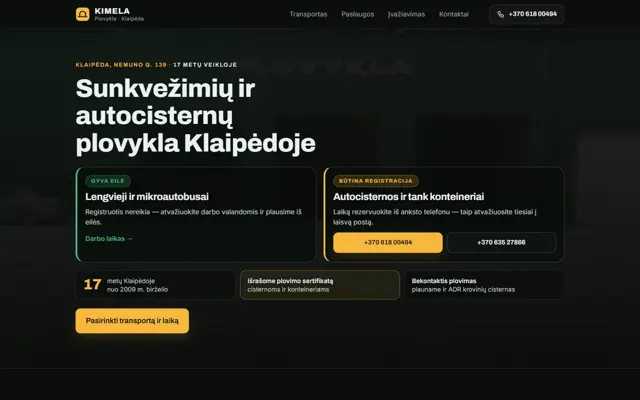
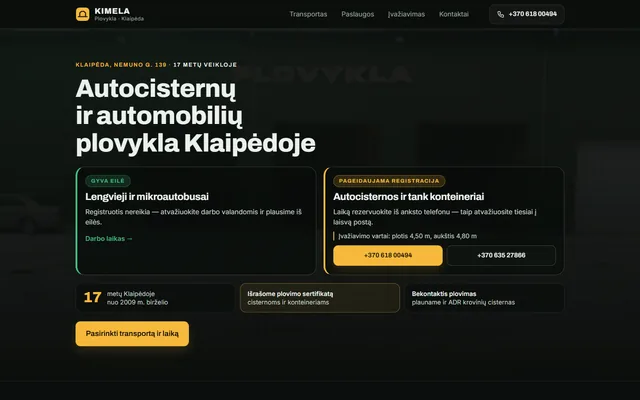
Nine more concepts (JanBra, Ventsistema, IG užuolaidos, TULU PH, Vytesa, Dr. Kļava, GR DARBI, Viktorija, Impress), Kimela re-shot, facts 28 / 7 countries, capture.py

diff --git a/assets/js/data.js b/assets/js/data.js
@@ -12,7 +12,16 @@ window.WORK = [
   { id: 'ards', name: 'ARDS Saldus', place: 'Saldus, Latvia', craft: 'Car service', lang: 'Latvian', url: 'https://vasilyanaptyp-oss.github.io/ards-concept/', tag: 'Service finder' },
   { id: 'mebtex', name: 'MEBTEX', place: 'Riga, Latvia', craft: 'Carpentry & furniture', lang: 'Latvian', url: 'https://vasilyanaptyp-oss.github.io/mebtex-concept/', tag: 'Work-first homepage' },
   { id: 'magicroof', name: 'Magic Roof', place: 'Linz, Austria', craft: 'Roofing & waterproofing', lang: 'German', url: 'https://vasilyanaptyp-oss.github.io/magic-roof-concept/', tag: 'Interactive services' },
-  { id: 'mekian', name: 'MEKIAN Bilverkstad', place: 'Täby, Sweden', craft: 'Car workshop', lang: 'Swedish', url: 'https://vasilyanaptyp-oss.github.io/mekian-concept/', tag: 'Booking-first' }
+  { id: 'mekian', name: 'MEKIAN Bilverkstad', place: 'Täby, Sweden', craft: 'Car workshop', lang: 'Swedish', url: 'https://vasilyanaptyp-oss.github.io/mekian-concept/', tag: 'Booking-first' },
+  { id: 'janbra', name: 'JanBra OÜ', place: 'Kuusalu, Estonia', craft: 'Furniture assembly & joinery', lang: 'Estonian', url: 'https://vasilyanaptyp-oss.github.io/janbra-concept/', tag: '3D wardrobe assembles on scroll' },
+  { id: 'ventsistema', name: 'Ventsistema', place: 'Vilnius, Lithuania', craft: 'Ventilation & heat recovery', lang: 'Lithuanian', url: 'https://vasilyanaptyp-oss.github.io/ventsistema-concept/', tag: 'Live 3D recuperator, air calculator' },
+  { id: 'iguzuolaidos', name: 'IG užuolaidų salonas', place: 'Kelmė, Lithuania', craft: 'Curtains & blinds', lang: 'Lithuanian', url: 'https://vasilyanaptyp-oss.github.io/ig-uzuolaidos-concept/', tag: 'Opens like curtains on a rail' },
+  { id: 'tulu', name: 'TULU PH OÜ', place: 'Tartu, Estonia', craft: '24h locksmith', lang: 'Estonian', url: 'https://vasilyanaptyp-oss.github.io/tulu-ph-concept/', tag: 'Lock in cross-section, night mode' },
+  { id: 'vytesa', name: 'Vytesa', place: 'Kėdainiai, Lithuania', craft: 'Electrical installation', lang: 'Lithuanian', url: 'https://vasilyanaptyp-oss.github.io/vytesa-concept/', tag: 'Situations as breakers on a DIN rail' },
+  { id: 'klava', name: 'Dr. Laura Kļava', place: 'Iecava, Latvia', craft: 'Mobile veterinarian', lang: 'Latvian', url: 'https://vasilyanaptyp-oss.github.io/klava-vet-concept/', tag: 'Situation + pet + place → ready SMS' },
+  { id: 'grdarbi', name: 'GR DARBI', place: 'Kuldīga, Latvia', craft: 'Plastering, painting & finishing', lang: 'Latvian', url: 'https://vasilyanaptyp-oss.github.io/grdarbi-concept/', tag: 'A wall gets finished as you scroll' },
+  { id: 'viktorija', name: 'Med. kosmetologė Viktorija', place: 'Visaginas, Lithuania', craft: 'Medical cosmetology', lang: 'Lithuanian & Russian', url: 'https://vasilyanaptyp-oss.github.io/kosmetologe-viktorija-concept/', tag: 'One ring lamp lights the page' },
+  { id: 'impress', name: 'Impress', place: 'Utena, Lithuania', craft: 'Beauty salon', lang: 'Lithuanian', url: 'https://vasilyanaptyp-oss.github.io/impress-utena-concept/', tag: 'Scissors, dropper and brush drawn live' }
 ];
 window.MORE = [
   { id: 'alarm3', name: 'ALARM3', place: 'Riga, Latvia', craft: 'Car service', url: 'https://vasilyanaptyp-oss.github.io/alarm3-concept/' },

diff --git a/index.html b/index.html
@@ -4,7 +4,7 @@
 <meta charset="utf-8">
 <meta name="viewport" content="width=device-width, initial-scale=1, viewport-fit=cover">
 <title>Artur Vasilyan — websites for people who work with their hands</title>
-<meta name="description" content="Web designer and developer. I build a free homepage concept for small craft businesses across Europe and charge a flat 300 € only if they say yes. 19 concepts in Latvia, Lithuania, Poland, Ukraine, Austria and Sweden.">
+<meta name="description" content="Web designer and developer. I build a free homepage concept for small craft businesses across Europe and charge a flat 300 € only if they say yes. 28 concepts in Latvia, Lithuania, Estonia, Poland, Ukraine, Austria and Sweden.">
 <meta name="theme-color" content="#f4f1ea" media="(prefers-color-scheme: light)">
 <meta name="theme-color" content="#141412" media="(prefers-color-scheme: dark)">
 <meta name="color-scheme" content="light dark">
@@ -60,9 +60,9 @@
       <a class="link" id="cta2" href="#before">How the old site looked →</a>
     </div>
     <ul class="hero__facts" aria-label="Facts">
-      <li><b>19</b><span>concepts built</span></li>
+      <li><b>28</b><span>concepts built</span></li>
       <li><b>1</b><span>live client site</span></li>
-      <li><b>6</b><span>countries</span></li>
+      <li><b>7</b><span>countries</span></li>
       <li><b>300&nbsp;€</b><span>once, no monthly fees</span></li>
     </ul>
   </div>
@@ -102,7 +102,7 @@ if(code!=='en')window.applyPitch(code);})();
   <div class="wrap">
     <div class="sec__head">
       <p class="eyebrow">Work</p>
-      <h2>One client already lives with the new site. Eighteen more got a concept they never asked for.</h2>
+      <h2>One client already lives with the new site. Twenty-seven more got a concept they never asked for.</h2>
       <p class="lead">That is how the free step works. The first card is a live client site. The rest are concepts built from each company’s public materials, not commissioned by them. Tap a card to open the page.</p>
     </div>
     <div class="grid" id="grid"></div>
